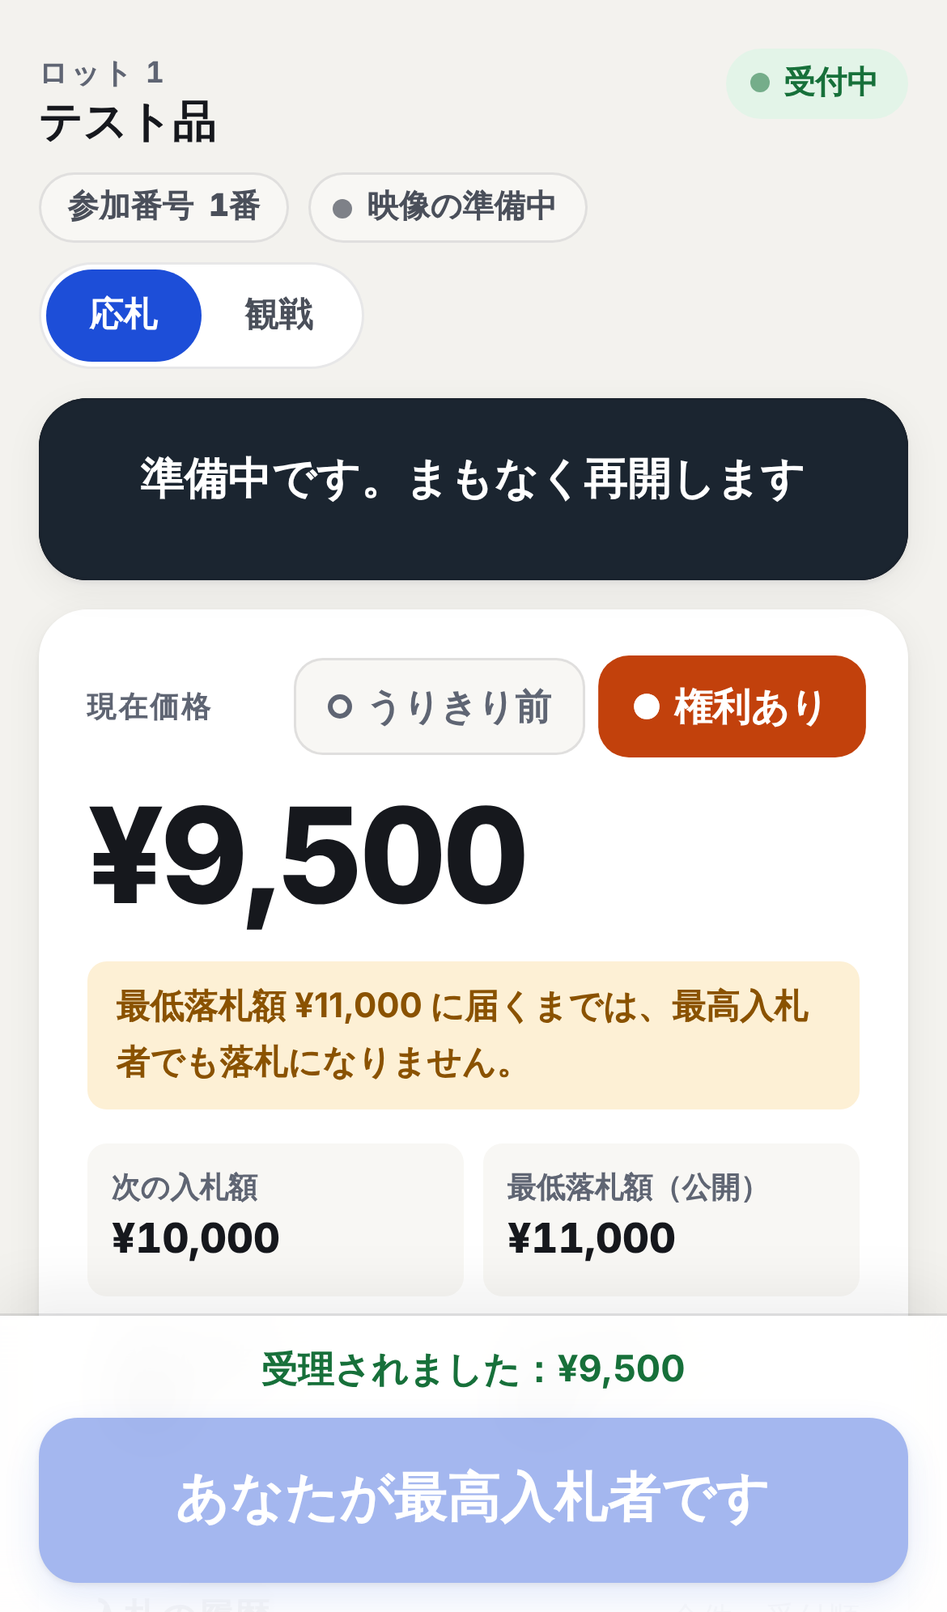
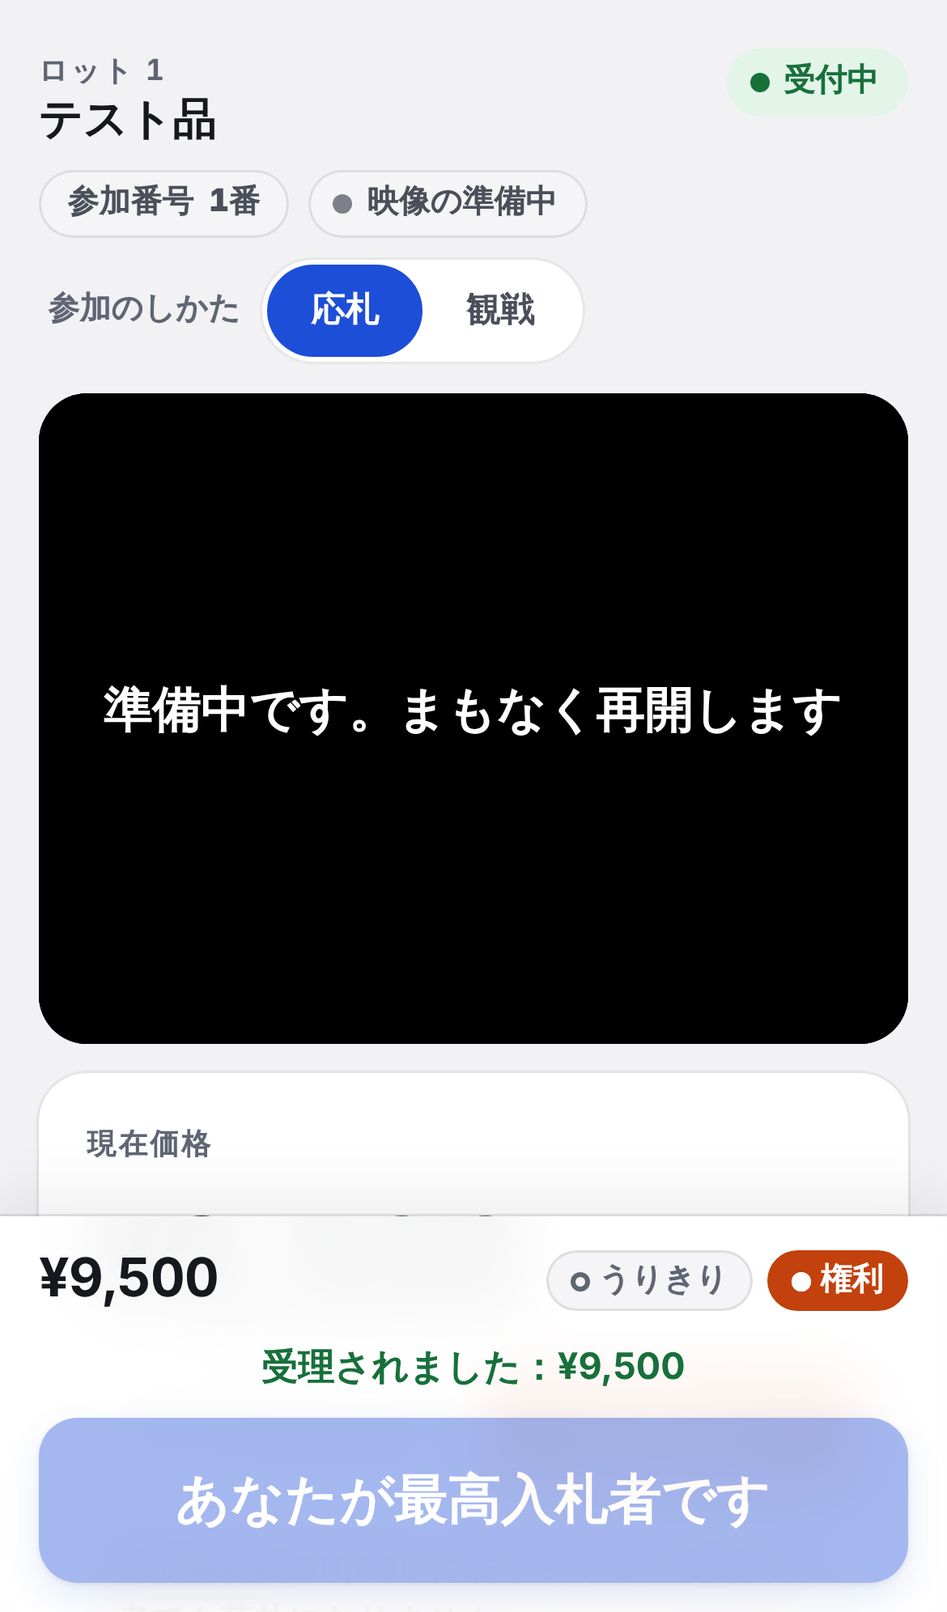
ライブ画面を常に 4:3 に固定し、Apple のガイドラインに沿って画面を見直す
- ライブ画面の枠は再生中も停止中も 4:3。映像は元の比率のまま収める
- スマホでは、固定した入札の帯に現在価格と「うりきり」「権利」を小さく表示
- 青は操作だけに使う。ランプは価格の直下に同じ幅で並べ、印と文字でも状態を示す
- 本文の大きさ・太さ、切り替えの文言、点滅の廃止、背景と影の見直し
根拠は docs/03 の 9 章

Claude-Session: https://claude.ai/code/session_01Uo5Yu1A7m6DzEHqwq9fkYt

diff --git a/web/bidder.html b/web/bidder.html
@@ -3,16 +3,16 @@
 <head>
 <meta charset="utf-8">
 <meta name="viewport" content="width=device-width, initial-scale=1, viewport-fit=cover">
-<meta name="theme-color" content="#f3f2ee" media="(prefers-color-scheme: light)">
+<meta name="theme-color" content="#f2f2f5" media="(prefers-color-scheme: light)">
 <meta name="theme-color" content="#0f1115" media="(prefers-color-scheme: dark)">
 <title>入札 — ライブオークション PoC</title>
 <link rel="stylesheet" href="app.css">
 <style>
-  body { padding-bottom: calc(132px + env(safe-area-inset-bottom)); transition: background-color .2s ease; }
+  body { padding-bottom: calc(176px + env(safe-area-inset-bottom)); transition: background-color .2s ease; }
   main { max-width: 560px; margin: 0 auto; padding: 12px max(16px, env(safe-area-inset-left)) 24px max(16px, env(safe-area-inset-right)); display: grid; gap: 12px; }
   /* スマホでは、映像 → 価格 → 履歴 → コメントの順に並べる（価格と入札を、スクロールせずに見える位置に置く） */
   .stage, .panel { display: contents; }
-  #videoBox { order: 1; } .pricecard { order: 2; } .histcard { order: 3; } .cmtcard { order: 4; } .panel > .note, .panel > details { order: 5; }
+  #videoBox { order: 1; } .pricecard { order: 2; } .bidbar { order: 2; } .histcard { order: 3; } .cmtcard { order: 4; } .panel > .note, .panel > details { order: 5; }
   .topbar { grid-column: 1 / -1; }
   /* PC では、左に映像とコメント、右に入札の操作を並べる */
   @media (min-width: 960px) {
@@ -26,8 +26,10 @@
 
   /* 上の帯: 参加番号・映像の受信状態・応札／観戦 */
   .chips { display: flex; flex-wrap: wrap; gap: 8px; align-items: center; margin-top: 8px; }
-  .seg { display: inline-grid; grid-auto-flow: column; padding: 3px; border-radius: 999px; background: var(--surface); box-shadow: inset 0 0 0 1px var(--line); }
-  .seg button { appearance: none; border: 0; background: none; font: inherit; font-weight: 800; font-size: 14px; color: var(--ink-2); min-height: 38px; min-width: 64px; padding: 0 16px; border-radius: 999px; cursor: pointer; transition: background-color .15s ease, color .15s ease; }
+  .seglabel { font-size: 13px; font-weight: 600; color: var(--ink-3); margin-left: 4px; }
+  body.outbid .seglabel, body.won .seglabel { color: rgba(255, 255, 255, .85); }
+  .seg { display: inline-grid; grid-auto-columns: 1fr; grid-auto-flow: column; padding: 3px; border-radius: 999px; background: var(--surface); box-shadow: inset 0 0 0 1px var(--line); }
+  .seg button { appearance: none; border: 0; background: none; font: inherit; font-weight: 700; font-size: 14px; color: var(--ink-2); min-height: 38px; min-width: 64px; padding: 0 16px; border-radius: 999px; cursor: pointer; transition: background-color .15s ease, color .15s ease; }
   .seg button[aria-checked="true"] { background: var(--accent); color: var(--accent-ink); }
   .seg button[data-mode="watch"][aria-checked="true"] { background: var(--ink-2); color: var(--surface); }
   .seg button:disabled { opacity: .5; cursor: not-allowed; }
@@ -43,7 +45,7 @@
   #cmtBody { display: grid; gap: 10px; margin-top: 8px; }
   #comments { list-style: none; margin: 0; padding: 0; max-height: 168px; overflow: auto; overscroll-behavior: contain; display: grid; gap: 6px; }
   #comments li { display: grid; grid-template-columns: auto 1fr; gap: 8px; align-items: baseline; font-size: 15px; overflow-wrap: anywhere; }
-  #comments .who { font-size: 12px; font-weight: 800; color: var(--ink-3); background: var(--surface-2); border-radius: 999px; padding: 1px 8px; white-space: nowrap; }
+  #comments .who { font-size: 12px; font-weight: 700; color: var(--ink-3); background: var(--surface-2); border-radius: 999px; padding: 1px 8px; white-space: nowrap; }
   #comments li.mine .who { color: var(--right); }
   #cmtEmpty { font-size: 14px; color: var(--ink-3); }
   #cmtForm { display: grid; grid-template-columns: minmax(0, 1fr) auto; gap: 8px; }
@@ -61,44 +63,36 @@
   .topbar { display: flex; align-items: flex-start; justify-content: space-between; gap: 12px; padding-top: max(8px, env(safe-area-inset-top)); }
   .topbar > div { min-width: 0; }
   body.outbid .chips .pill, body.won .chips .pill { background: rgba(255, 255, 255, .92); color: #16181d; }
-  #title { font-size: 18px; font-weight: 800; overflow-wrap: anywhere; }
+  #title { font-size: 18px; font-weight: 700; overflow-wrap: anywhere; }
 
   /* 映像 */
-  #videoBox { display: none; position: relative; aspect-ratio: 16 / 9; background: #000; border-radius: var(--r-lg); overflow: hidden; box-shadow: var(--shadow); outline: 1px solid var(--line); outline-offset: -1px; }
-  #videoBox video { width: 100%; height: 100%; display: block; object-fit: contain; }
-  #break { position: absolute; inset: 0; display: flex; flex-direction: column; gap: 6px; align-items: center; justify-content: center; text-align: center; padding: 16px; background: #1b2530; color: #fff; }
-  #break strong { font-size: 18px; }
-  /* 配信が止まっている間は、場所を取らない休憩の表示にする（FR-STR-004） */
-  #videoBox.idle { aspect-ratio: auto; }
-  #videoBox.idle video { display: none; }
-  #videoBox.idle #break { position: static; padding: 20px 16px; }
-  #break span { font-size: 13px; opacity: .8; }
+  /* ライブ画面は常に 4:3（停止中も同じ大きさ）。映像は元の比率のまま収め、切り取らない（playing-video.md › Best practices） */
+  #videoBox { display: none; position: relative; aspect-ratio: 4 / 3; width: 100%; background: #000; border-radius: var(--r-lg); overflow: hidden; }
+  #videoBox video { position: absolute; inset: 0; width: 100%; height: 100%; display: block; object-fit: contain; background: #000; }
+  #break { position: absolute; inset: 0; display: flex; flex-direction: column; gap: 8px; align-items: center; justify-content: center; text-align: center; padding: 16px; background: #000; color: #fff; }
+  #break strong { font-size: 20px; font-weight: 600; }
+  #break span { font-size: 15px; color: rgba(255, 255, 255, .72); }
 
   /* 価格 */
   .pricecard { display: grid; gap: 14px; }
   .pricehead { display: flex; align-items: center; justify-content: space-between; gap: 12px; }
-  #price { font-size: clamp(44px, 14vw, 64px); font-weight: 800; line-height: 1.05; letter-spacing: -.02em; transition: transform .18s ease, color .3s ease; transform-origin: left center; }
-  #price.tick { transform: scale(1.04); color: var(--accent); }
-  #right { display: inline-flex; align-items: center; gap: 6px; padding: 8px 14px; border-radius: var(--r-md); font-weight: 800; font-size: 15px; background: var(--surface-2); color: var(--ink-3); box-shadow: inset 0 0 0 1px var(--line); transition: background-color .2s ease, color .2s ease, transform .2s ease; }
-  #right::before { content: ""; width: 10px; height: 10px; border-radius: 50%; box-shadow: inset 0 0 0 2px currentColor; }
-  #right.on { background: var(--right); color: #fff; box-shadow: none; transform: scale(1.05); }
-  #right.on::before, #right.won::before { background: currentColor; }
-  #right.won { background: var(--ok); color: #fff; box-shadow: none; }
-  @media (prefers-color-scheme: dark) { #right.on, #right.won { color: #10131a; } }
+  #price { font-size: clamp(44px, 14vw, 64px); font-weight: 700; line-height: 1.05; letter-spacing: -.02em; transition: transform .18s ease, color .3s ease; transform-origin: left center; }
+  #price.tick { transform: scale(1.04); }
+  /* 「うりきり」「権利」の2つのランプ。両方が点いた人が落札する。色だけでなく、印（●／○）と文字でも状態を示す */
+  .lamps { display: grid; grid-template-columns: repeat(2, minmax(0, 1fr)); gap: 8px; }
+  #right, .lamp { display: flex; align-items: center; justify-content: center; gap: 8px; min-height: 48px; padding: 8px 12px; border-radius: var(--r-md); font-weight: 700; font-size: 17px; background: var(--surface-2); color: var(--ink-3); box-shadow: inset 0 0 0 1px var(--line); transition: background-color .2s ease, color .2s ease; }
+  #right::before, .lamp::before { content: ""; flex: none; width: 12px; height: 12px; border-radius: 50%; box-shadow: inset 0 0 0 2px currentColor; }
+  #right.on { background: var(--right); color: #fff; box-shadow: none; }
+  #right.won, #urikiri.on { background: var(--ok); color: #fff; box-shadow: none; }
+  #right.on::before, #right.won::before, #urikiri.on::before { background: currentColor; }
+  @media (prefers-color-scheme: dark) { #right.on, #right.won, #urikiri.on { color: #10131a; } }
   .facts { display: grid; grid-template-columns: repeat(2, minmax(0, 1fr)); gap: 8px; margin: 0; }
-  .lamps { display: flex; gap: 8px; flex-wrap: wrap; justify-content: flex-end; }
-  /* 「うりきり」「権利」は、点いているか消えているかを色だけでなく文字と印でも示す */
-  .lamp { display: inline-flex; align-items: center; gap: 6px; padding: 8px 14px; border-radius: var(--r-md); font-weight: 800; font-size: 15px; background: var(--surface-2); color: var(--ink-3); box-shadow: inset 0 0 0 1px var(--line); transition: background-color .2s ease, color .2s ease, transform .2s ease; }
-  .lamp::before { content: ""; width: 10px; height: 10px; border-radius: 50%; box-shadow: inset 0 0 0 2px currentColor; }
-  #urikiri.on { background: var(--ok); color: #fff; box-shadow: none; }
-  #urikiri.on::before { background: currentColor; }
-  @media (prefers-color-scheme: dark) { #urikiri.on { color: #10131a; } }
   #hint { font-size: 14px; font-weight: 700; color: var(--warn); background: var(--warn-soft); border-radius: var(--r-sm); padding: 8px 12px; }
   #hint:empty { display: none; }
   .facts div { background: var(--surface-2); border-radius: var(--r-sm); padding: 8px 10px; min-width: 0; }
   .facts dt { font-size: 12px; color: var(--ink-3); font-weight: 700; }
-  .facts dd { margin: 0; font-size: 17px; font-weight: 800; overflow-wrap: anywhere; }
-  #banner { font-size: 20px; font-weight: 800; text-align: center; padding: 12px; border-radius: var(--r-md); background: var(--accent-soft); color: var(--accent); }
+  .facts dd { margin: 0; font-size: 17px; font-weight: 700; overflow-wrap: anywhere; }
+  #banner { font-size: 20px; font-weight: 700; text-align: center; padding: 12px; border-radius: var(--r-md); background: var(--surface-2); color: var(--ink); }
   #banner:empty { display: none; }
 
   /* 入札の履歴 */
@@ -108,7 +102,7 @@
   #history li { display: grid; grid-template-columns: minmax(5.5em, auto) 1fr auto; align-items: baseline; gap: 12px; padding: 10px 4px; border-top: 1px solid var(--line); }
   #history li:first-child { border-top: 0; }
   #history .who { font-weight: 700; color: var(--ink-2); white-space: nowrap; }
-  #history .amt { font-weight: 800; font-size: 17px; }
+  #history .amt { font-weight: 700; font-size: 17px; }
   #history .at { font-size: 13px; color: var(--ink-3); }
   #history li.mine .who { color: var(--right); }
   #history li.void .amt, #history li.void .who { text-decoration: line-through; color: var(--ink-3); }
@@ -119,6 +113,17 @@
   /* 画面の下に固定する入札の操作（親指が届く位置） */
   .bidbar { position: fixed; left: 0; right: 0; bottom: 0; z-index: 10; background: color-mix(in srgb, var(--surface) 92%, transparent); backdrop-filter: blur(12px); -webkit-backdrop-filter: blur(12px); box-shadow: 0 -1px 0 var(--line), 0 -8px 24px rgba(22, 24, 29, .08); }
   .bidbar > div { max-width: 560px; margin: 0 auto; padding: 10px max(16px, env(safe-area-inset-left)) calc(12px + env(safe-area-inset-bottom)) max(16px, env(safe-area-inset-right)); display: grid; gap: 8px; }
+  /* スマホでは 4:3 の映像の下に価格が来るので、価格と2つのランプを、固定した入札の帯にも小さく出す（スクロールしなくても落札の条件が見える） */
+  .mini { display: flex; align-items: center; justify-content: space-between; gap: 8px; }
+  .mini b { font-size: 22px; font-weight: 700; letter-spacing: -.01em; }
+  .mini .ml { display: inline-flex; gap: 6px; }
+  .minilamp { display: inline-flex; align-items: center; gap: 4px; font-size: 13px; font-weight: 700; padding: 3px 10px; border-radius: 999px; background: var(--surface-2); color: var(--ink-3); box-shadow: inset 0 0 0 1px var(--line); }
+  .minilamp::before { content: ""; width: 8px; height: 8px; border-radius: 50%; box-shadow: inset 0 0 0 2px currentColor; }
+  .minilamp.on { background: var(--ok); color: #fff; box-shadow: none; }
+  .minilamp.on.right { background: var(--right); }
+  .minilamp.on::before { background: currentColor; }
+  @media (prefers-color-scheme: dark) { .minilamp.on { color: #10131a; } }
+  @media (min-width: 960px) { .mini { display: none; } }
   #msg { min-height: 24px; font-size: 15px; font-weight: 700; text-align: center; color: var(--ink-2); }
   #msg[data-kind="ok"] { color: var(--ok); }
   #msg[data-kind="ng"] { color: var(--danger); }
@@ -166,7 +171,8 @@
       <div class="chips">
         <span class="pill plain num">参加番号 <b id="me">—</b></span>
         <span class="pill" id="videoState" data-state="">映像 —</span>
-        <div class="seg" role="radiogroup" aria-label="参加のしかた">
+        <span class="seglabel" id="segLabel">参加のしかた</span>
+        <div class="seg" role="radiogroup" aria-labelledby="segLabel">
           <button type="button" role="radio" data-mode="bid" aria-checked="false">応札</button>
           <button type="button" role="radio" data-mode="watch" aria-checked="true">観戦</button>
         </div>
@@ -184,7 +190,7 @@
     <section class="card cmtcard" aria-labelledby="cmtTitle">
       <div class="cmthead">
         <h2 id="cmtTitle">コメント</h2>
-        <label class="switch"><span id="cmtSwitchLabel">表示する</span><input type="checkbox" id="cmtOn" role="switch" checked></label>
+        <label class="switch"><span id="cmtSwitchLabel">コメントを表示</span><input type="checkbox" id="cmtOn" role="switch" checked></label>
       </div>
       <div id="cmtBody">
         <ul id="comments" aria-live="polite"></ul>
@@ -203,12 +209,12 @@
     <section class="card pricecard" aria-label="現在の価格">
       <div class="pricehead">
         <p class="eyebrow" id="priceLabel">現在価格</p>
-        <div class="lamps">
-          <span class="lamp" id="urikiri" aria-live="polite">うりきり</span>
-          <span id="right" aria-live="polite">権利</span>
-        </div>
       </div>
       <div class="num" id="price" aria-live="polite">—</div>
+      <div class="lamps" role="group" aria-label="落札の条件（両方が点くと落札）">
+        <span class="lamp" id="urikiri" aria-live="polite">うりきり</span>
+        <span id="right" aria-live="polite">権利</span>
+      </div>
       <div id="banner" role="status"></div>
       <p id="hint" role="status"></p>
       <dl class="facts num">
@@ -221,6 +227,7 @@
 
     <div class="bidbar">
       <div>
+        <div class="mini num" aria-hidden="true"><b id="miniPrice">—</b><span class="ml"><span class="minilamp" id="miniUri">うりきり</span><span class="minilamp right" id="miniRight">権利</span></span></div>
         <div id="msg" role="status" aria-live="polite"></div>
         <button class="btn btn-primary btn-lg num" id="bid" type="button" disabled>入札</button>
       </div>
@@ -311,7 +318,8 @@ function render() {
     $('status').textContent = '—'; $('status').dataset.state = '';
     $('price').textContent = '—'; $('min').textContent = '—'; $('highest').textContent = '—'; $('banner').textContent = '';
     $('bid').disabled = true; $('bid').textContent = '入札'; $('right').className = ''; S.shownPrice = null;
-    $('urikiri').className = 'lamp'; $('reserve').textContent = '—'; $('hint').textContent = ''; return;
+    $('urikiri').className = 'lamp'; $('reserve').textContent = '—'; $('hint').textContent = '';
+    $('miniPrice').textContent = '—'; $('miniUri').className = 'minilamp'; $('miniRight').className = 'minilamp right'; return;
   }
   const mine = lot.highestPaddle !== null && lot.highestPaddle === S.paddle;
   $('lotNo').textContent = `ロット ${lot.lotNo}`;
@@ -350,6 +358,9 @@ function render() {
   $('bid').textContent = lot.status !== 'open' ? '入札の受付を待っています'
     : watching ? '観戦中です（入札するには「応札」へ）'
     : mine ? 'あなたが最高入札者です' : `${yen(lot.minBid)} で入札`;
+  $('miniPrice').textContent = yen(price);
+  $('miniUri').className = urikiri ? 'minilamp on' : 'minilamp';
+  $('miniRight').className = mine && lot.status !== 'unsold' ? 'minilamp right on' : 'minilamp right';
   S.wasHighest = mine && lot.status === 'open';
 }
 function renderHistory() {
@@ -373,7 +384,6 @@ function renderStream() {
   $('videoBox').style.display = show ? 'block' : 'none';
   const live = !!S.stream?.live && !!S.stream?.playbackUrl;
   $('break').style.display = live ? 'none' : 'flex';
-  $('videoBox').classList.toggle('idle', !live);
   $('breakSub').textContent = S.stream?.live ? '' : '入札の受付が始まると、映像も始まります';
   // 映像の受信状態（会場参加は映像なし）
   const vs = $('videoState');
@@ -395,7 +405,6 @@ document.querySelectorAll('.seg button').forEach((b) => b.addEventListener('clic
 function renderComments() {
   const on = $('cmtOn').checked;
   $('cmtBody').style.display = on ? 'grid' : 'none';
-  $('cmtSwitchLabel').textContent = on ? '表示する' : '表示しない';
   if (!on) return;
   const ul = $('comments');
   ul.replaceChildren(...S.comments.map((c) => {

diff --git a/web/app.css b/web/app.css
@@ -1,9 +1,9 @@
 /* 検証用の画面の共通スタイル。色・余白・角丸はすべてここのトークンから取る。 */
 :root {
   color-scheme: light dark;
-  --bg: #f3f2ee;
+  --bg: #f2f2f5;
   --surface: #ffffff;
-  --surface-2: #f8f7f4;
+  --surface-2: #f5f5f7;
   --ink: #16181d;
   --ink-2: #4a4f5a;      /* 補助の文字（白の上で 7.9:1） */
   --ink-3: #5f6573;      /* 注記（背景色の上でも 4.5:1 以上） */
@@ -18,12 +18,12 @@
   --danger: #b3261e;
   --danger-soft: #fbe9e7;
   --right: #c2410c;      /* 権利表示 */
-  --shadow: 0 1px 2px rgba(22, 24, 29, .06), 0 4px 16px rgba(22, 24, 29, .06);
+  --shadow: 0 0 0 1px rgba(22, 24, 29, .05), 0 1px 3px rgba(22, 24, 29, .05);
   --shadow-lg: 0 2px 6px rgba(22, 24, 29, .10), 0 16px 40px rgba(22, 24, 29, .16);
   --r-sm: 8px;
   --r-md: 12px;
   --r-lg: 20px;
-  --font: "Hiragino Sans", "Hiragino Kaku Gothic ProN", "Noto Sans JP", "Yu Gothic UI", Meiryo, system-ui, sans-serif;
+  --font: -apple-system, BlinkMacSystemFont, "Hiragino Sans", "Hiragino Kaku Gothic ProN", "Noto Sans JP", "Yu Gothic UI", Meiryo, system-ui, sans-serif;
   --mono: ui-monospace, "SF Mono", Menlo, Consolas, monospace;
 }
 @media (prefers-color-scheme: dark) {
@@ -57,8 +57,8 @@ body {
   background: var(--bg);
   color: var(--ink);
   font-family: var(--font);
-  font-size: 16px;
-  line-height: 1.6;
+  font-size: 17px; /* スマホの本文の既定の大きさ（typography.md › Specifications） */
+  line-height: 1.5;
   -webkit-font-smoothing: antialiased;
   -webkit-tap-highlight-color: transparent;
   touch-action: manipulation;
@@ -77,7 +77,7 @@ p { text-wrap: pretty; }
 
 /* ---- ボタン */
 .btn {
-  appearance: none; font: inherit; font-weight: 700; color: var(--ink);
+  appearance: none; font: inherit; font-weight: 600; color: var(--ink);
   min-height: 44px; padding: 10px 18px; border: 0; border-radius: var(--r-md);
   background: var(--surface); box-shadow: inset 0 0 0 1px var(--line), 0 1px 2px rgba(22, 24, 29, .06);
   cursor: pointer; touch-action: manipulation;
@@ -102,11 +102,10 @@ p { text-wrap: pretty; }
 .pill::before { content: ""; width: 8px; height: 8px; border-radius: 50%; background: currentColor; opacity: .7; }
 .pill.plain::before { display: none; }
 .pill[data-state="open"] { background: var(--ok-soft); color: var(--ok); box-shadow: none; }
-.pill[data-state="open"]::before { opacity: 1; animation: pulse 1.6s ease-in-out infinite; }
+.pill[data-state="open"]::before { opacity: 1; }
 .pill[data-state="preparing"], .pill[data-state="suspended"] { background: var(--warn-soft); color: var(--warn); box-shadow: none; }
 .pill[data-state="preparing_warn"] { background: var(--danger-soft); color: var(--danger); box-shadow: none; }
-.pill[data-state="sold"] { background: var(--accent-soft); color: var(--accent); box-shadow: none; }
-@keyframes pulse { 50% { opacity: .35; } }
+.pill[data-state="sold"] { background: var(--ok-soft); color: var(--ok); box-shadow: none; }
 
 /* ---- 入力 */
 .field { display: grid; gap: 4px; font-size: 13px; font-weight: 700; color: var(--ink-2); min-width: 0; }
@@ -138,3 +137,5 @@ dialog .error { color: var(--danger); font-size: 13px; min-height: 20px; }
 @media (prefers-reduced-motion: reduce) {
   *, *::before, *::after { animation: none !important; transition: none !important; }
 }
+
+@media (min-width: 960px) { body { font-size: 16px; } }

diff --git a/web/console.html b/web/console.html
@@ -3,7 +3,7 @@
 <head>
 <meta charset="utf-8">
 <meta name="viewport" content="width=device-width, initial-scale=1">
-<meta name="theme-color" content="#f3f2ee" media="(prefers-color-scheme: light)">
+<meta name="theme-color" content="#f2f2f5" media="(prefers-color-scheme: light)">
 <meta name="theme-color" content="#0f1115" media="(prefers-color-scheme: dark)">
 <title>進行コンソール — ライブオークション PoC</title>
 <link rel="stylesheet" href="app.css">
@@ -20,15 +20,15 @@
   .cardhead h2 { font-size: 15px; }
 
   /* 進行中のロット */
-  #title { font-size: 20px; font-weight: 800; overflow-wrap: anywhere; }
-  #price { font-size: clamp(48px, 7vw, 76px); font-weight: 800; line-height: 1.05; letter-spacing: -.02em; margin: 4px 0 12px; }
+  #title { font-size: 20px; font-weight: 700; overflow-wrap: anywhere; }
+  #price { font-size: clamp(48px, 7vw, 76px); font-weight: 700; line-height: 1.05; letter-spacing: -.02em; margin: 4px 0 12px; }
   #price small { font-size: 16px; font-weight: 700; color: var(--ink-3); letter-spacing: 0; margin-left: 8px; }
   .facts { display: grid; grid-template-columns: repeat(3, minmax(0, 1fr)); gap: 8px; margin: 0 0 16px; }
   .facts dd small { display: block; font-size: 12px; font-weight: 700; color: var(--ink-3); }
   .facts dd small[data-on="1"] { color: var(--ok); }
   .facts div { background: var(--surface-2); border-radius: var(--r-sm); padding: 8px 12px; }
   .facts dt { font-size: 12px; font-weight: 700; color: var(--ink-3); }
-  .facts dd { margin: 0; font-size: 20px; font-weight: 800; }
+  .facts dd { margin: 0; font-size: 20px; font-weight: 700; }
   .alert { display: none; gap: 4px; padding: 12px 16px; border-radius: var(--r-md); background: var(--danger-soft); color: var(--danger); font-weight: 700; margin-bottom: 16px; }
   .alert span { font-weight: 400; color: var(--ink-2); font-size: 14px; }
   .actions { display: flex; flex-wrap: wrap; gap: 8px; align-items: center; }
@@ -70,7 +70,7 @@
   .cmtlist { list-style: none; margin: 0; padding: 0; max-height: 220px; overflow: auto; overscroll-behavior: contain; }
   .cmtlist li { display: grid; grid-template-columns: auto minmax(0, 1fr) auto; gap: 8px; align-items: center; padding: 6px 0; border-top: 1px solid var(--line); font-size: 14px; overflow-wrap: anywhere; }
   .cmtlist li:first-child { border-top: 0; }
-  .cmtlist .who { font-weight: 800; color: var(--ink-3); white-space: nowrap; }
+  .cmtlist .who { font-weight: 700; color: var(--ink-3); white-space: nowrap; }
   .cmtlist .btn { min-height: 36px; padding: 4px 12px; font-size: 13px; }
   .dangerzone { box-shadow: var(--shadow), inset 0 0 0 1px color-mix(in srgb, var(--danger) 30%, transparent); }
   .stack { display: grid; gap: 8px; justify-items: start; }
